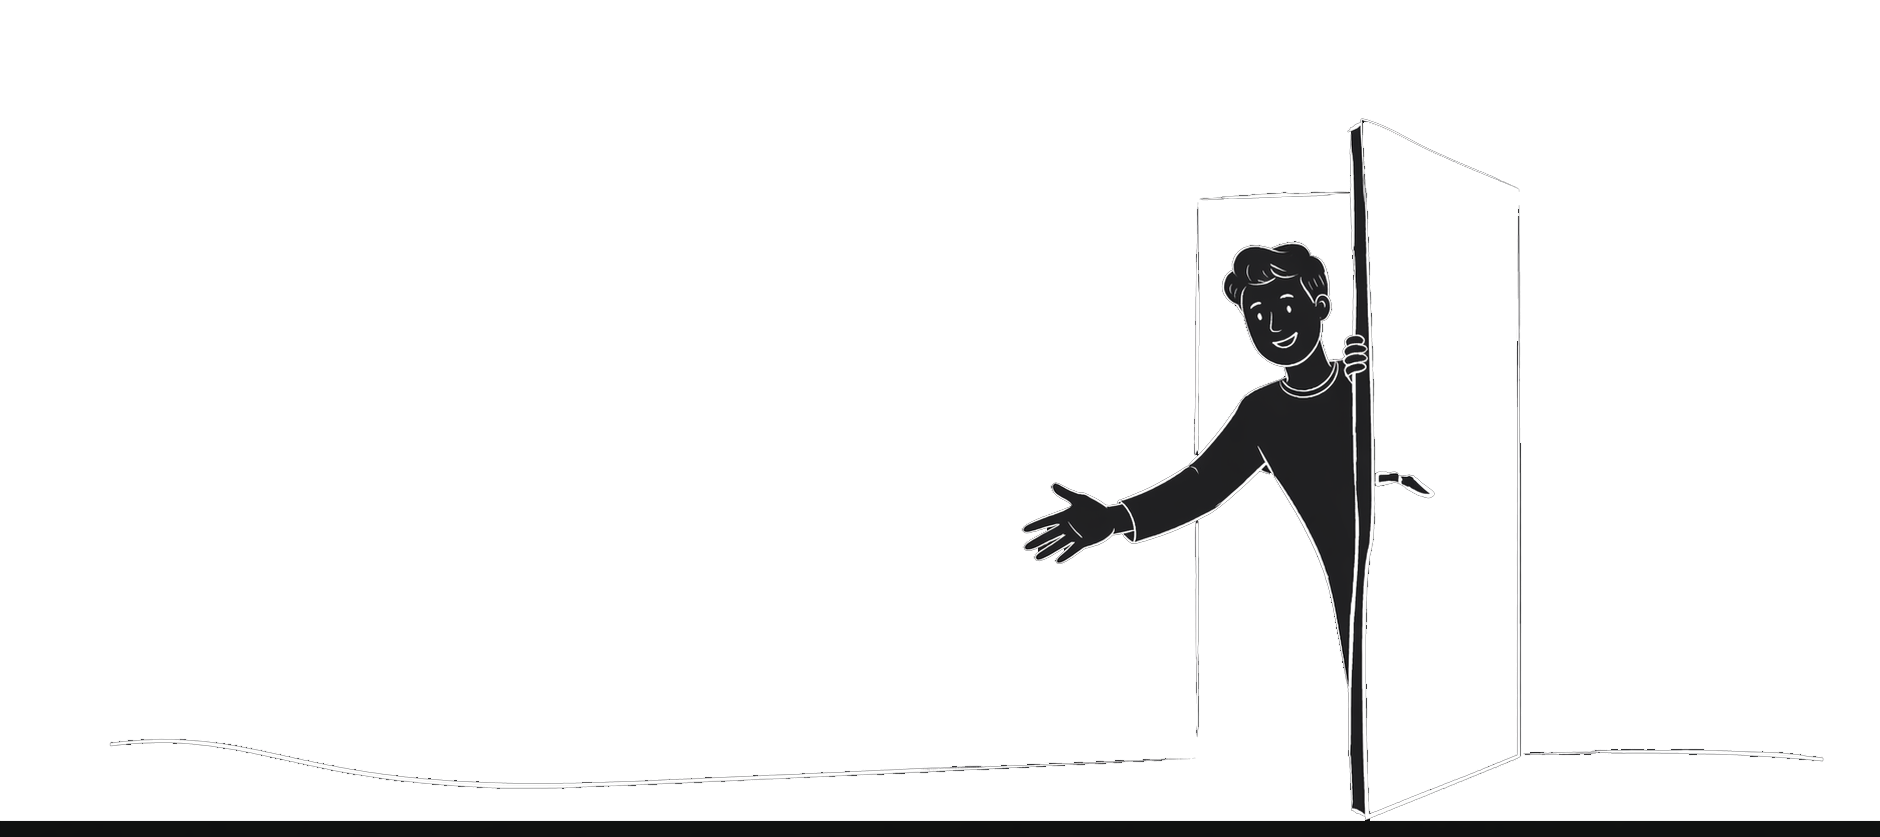
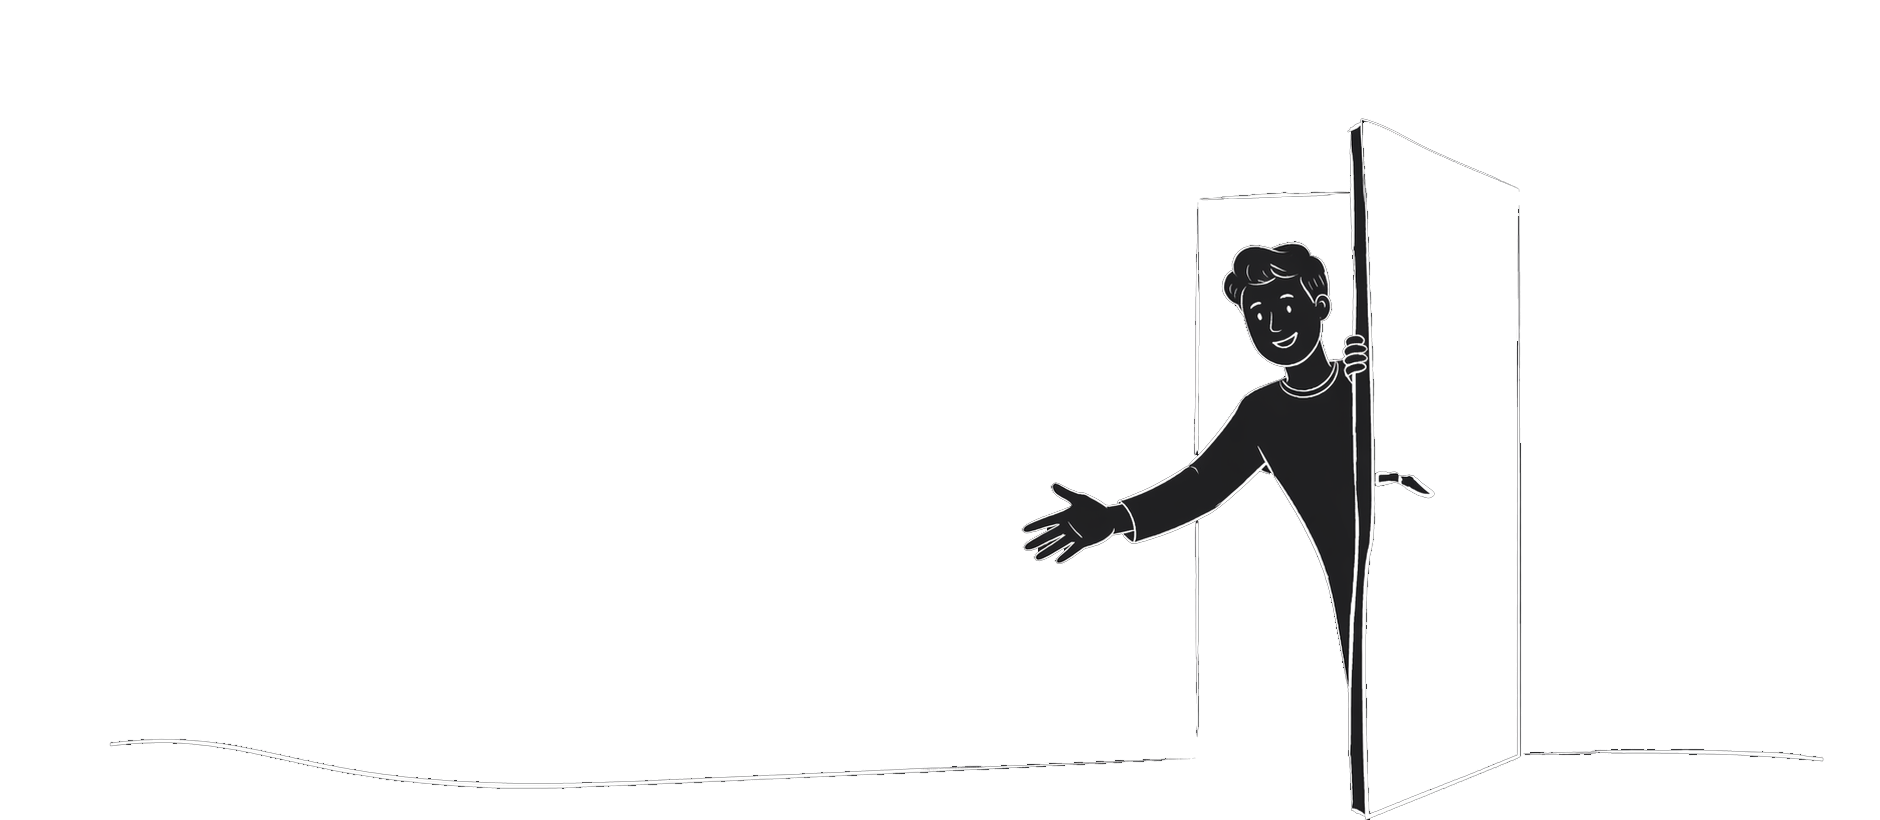
Restore inverted door + layer colored sparkles, drop black footer strip
- Switch decor back to filter: invert(1) so the door paints as light strokes on the dark banner (mix-blend-multiply produced a near-invisible door)
- Extract the 9 brand-colored sparkle shapes from the original SVG and layer them over the PNG without inverting, so brand-green/orange/purple/coral/blue read correctly
- Crop the solid black 17-pixel strip off the bottom of the PNG — it was painting as a dark band below the ground line

diff --git a/src/components/SignupBanner.tsx b/src/components/SignupBanner.tsx
@@ -30,7 +30,7 @@ export function SignupBanner() {
           <div
             ref={decor.ref}
             className={clsx(
-              "reveal pointer-events-none -mt-[120px] md:-mt-[240px]",
+              "reveal pointer-events-none relative -mt-[120px] md:-mt-[240px]",
               decor.isVisible && "is-visible",
             )}
             style={{ "--reveal-delay": "150ms" } as React.CSSProperties}
@@ -40,7 +40,15 @@ export function SignupBanner() {
               src={withBase("/images/signup/decor.png")}
               alt=""
               aria-hidden="true"
-              className="h-auto w-full mix-blend-multiply"
+              className="h-auto w-full"
+              style={{ filter: "invert(1)" }}
+            />
+            {/* eslint-disable-next-line @next/next/no-img-element */}
+            <img
+              src={withBase("/images/signup/sparkles.svg")}
+              alt=""
+              aria-hidden="true"
+              className="absolute inset-0 h-full w-full"
             />
           </div>
         </section>
